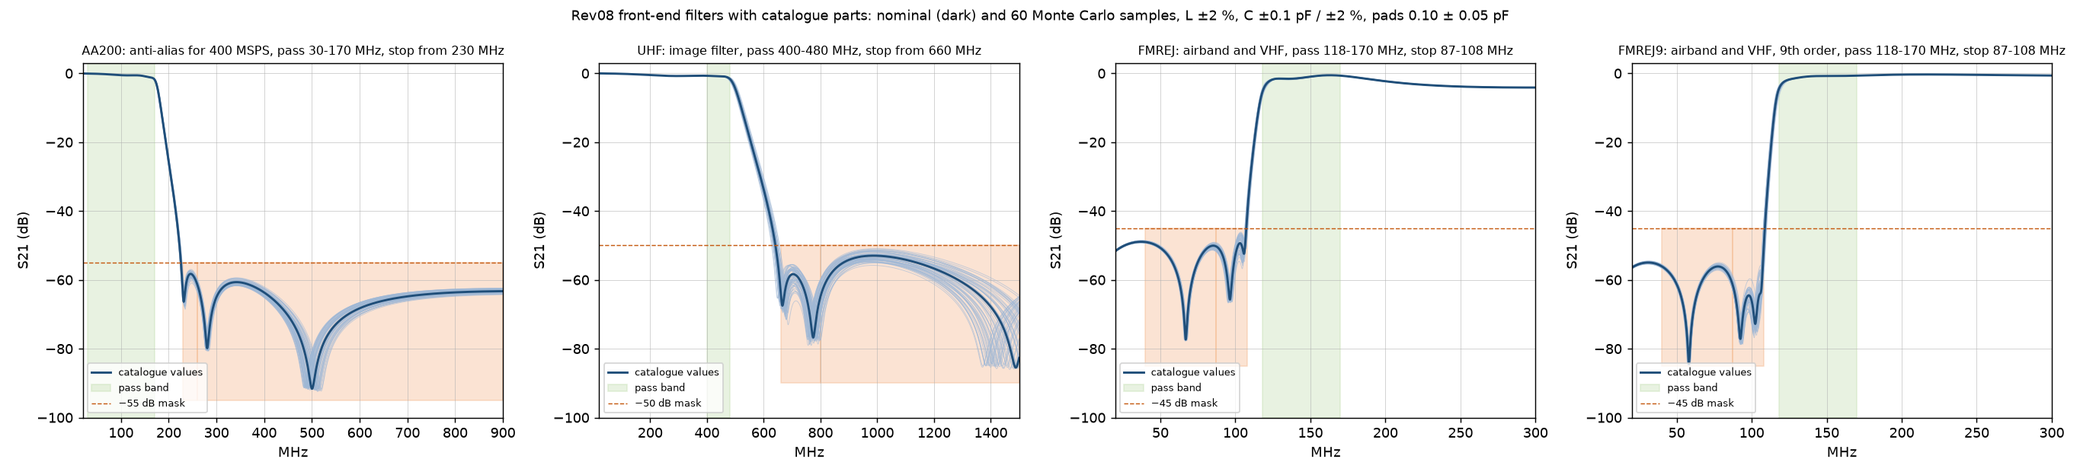
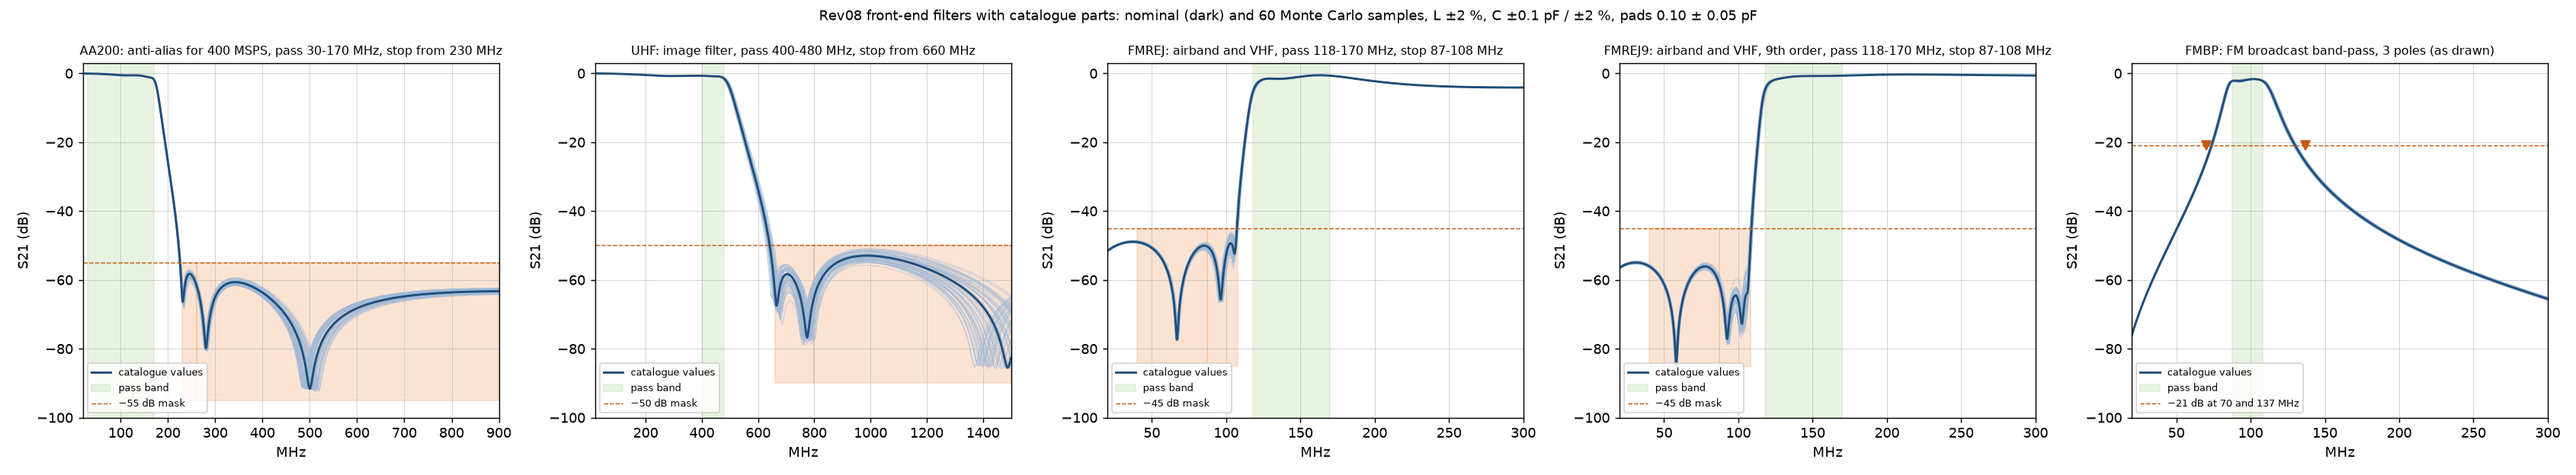
rev08: FM band-pass in the filter Monte Carlo; values re-chosen (16 nH || 160 pF, 390 nH + 6.8 pF): 3.1 dB p99, 24.3 dB p1 at 70 and 137 MHz
The first drawing (24 nH || 110 pF, 560 nH + 4.7 pF) modelled at 3.4 dB in band and 21.1 dB at p1 once pad
capacitance and inductor losses were in. RX_VU footprint fields now default from the symbol library.

diff --git a/_work/sim/rev08_filters_mc.py b/_work/sim/rev08_filters_mc.py
@@ -4,6 +4,7 @@ Rev08 phase 3 (docs/REV08_PLAN.md, section 11, gate G2): the three front-end fil
 to parts that exist, then a tolerance Monte Carlo, the method of aaf_lpf.py.
 
     python _work/sim/rev08_filters_mc.py          # about five minutes; writes docs/img/rev08_filters_mc.png
+    python _work/sim/rev08_filters_mc.py --fmbp   # the FM band-pass alone, in seconds
 
 Parts and tolerances [E: catalogue series, checked against LCSC stock when the schematic is drawn]:
   inductors  Murata LQW15AN (0402 wirewound, +-2 %, G) up to 120 nH, LQW18AN (0603, +-2 %) above
@@ -174,6 +175,73 @@ def monte_carlo(name, v, tight, n=2000, seed=1):
     return np.array(il), np.array(rl), np.array(rj)
 
 
+# The FM band-pass (phase 4 found it missing, section 5.4 of the plan): 3 poles, shunt tank, series resonator,
+# shunt tank, at the values drawn in RX_VU (rx_vu_spec.py). The first drawing (24 nH || 110 pF, 560 nH + 4.7 pF)
+# gave 3.4 dB loss and 21.1 dB at p1; a search over LQW15/LQW18 and E24 values gave these, 2.2 dB and 24.3 dB.
+FMBP = "FMBP: FM broadcast, 3-pole band-pass, pass 87.5-108 MHz, at 70 and 137 MHz >= 21 dB"
+FMBP_V = [16e-9, 160e-12, 390e-9, 6.8e-12, 16e-9, 160e-12]     # L1431 C1431, L1432 C1432, L1433 C1433
+FMBP_PASS, FMBP_REJ = (87.5e6, 108e6), (70e6, 137e6)
+
+
+def abcd_fmbp(v, f, cpad=(CPAD, CPAD)):
+    w = 2 * np.pi * f; one = np.ones_like(w, dtype=complex)
+    def tank(L, C, cp):                # LQW15AN 16 nH: Q about 40 at 100 MHz; pad capacitance across it
+        return [one, 0 * one, 1 / (1j * w * L + w * L / 40) + 1j * w * (C + cp + 0.1e-12), one]
+    L, C = v[2], v[3]                  # 390 nH 0603 wirewound: Q about 45, 0.25 pF self-capacitance
+    ZL = 1 / (1 / (1j * w * L + w * L / 45) + 1j * w * 0.25e-12)
+    ser = [one, ZL + 1 / (1j * w * C), 0 * one, one]
+    return fe._mul(fe._mul(tank(v[0], v[1], cpad[0]), ser), tank(v[4], v[5], cpad[1]))
+
+
+def fmbp_metrics(v, cpad=(CPAD, CPAD)):
+    FP = np.linspace(*FMBP_PASS, 80)
+    il = -20 * np.log10(np.abs(fe.s21(abcd_fmbp(v, FP, cpad))[0]))
+    rj = -20 * np.log10(np.abs(fe.s21(abcd_fmbp(v, np.array(FMBP_REJ), cpad))[0]))
+    return il.max(), rj.min()
+
+
+def fmbp_mc(n=2000, seed=1):
+    """L +-2 % (0402) and +-5 % (the 390 nH 0603, conservatively), C +-2 % from 10 pF and +-0.1 pF below, pads 0.10 +- 0.05 pF"""
+    rng = np.random.default_rng(seed)
+    il, rj = [], []
+    for _ in range(n):
+        w = list(FMBP_V)
+        w[0] *= 1 + rng.uniform(-0.02, 0.02); w[4] *= 1 + rng.uniform(-0.02, 0.02)
+        w[2] *= 1 + rng.uniform(-0.05, 0.05)
+        w[1] *= 1 + rng.uniform(-0.02, 0.02); w[5] *= 1 + rng.uniform(-0.02, 0.02)
+        w[3] += rng.uniform(-0.1e-12, 0.1e-12)
+        a, b = fmbp_metrics(w, CPAD + rng.uniform(-0.05e-12, 0.05e-12, 2))
+        il.append(a); rj.append(b)
+    return np.array(il), np.array(rj)
+
+
+def report_fmbp(ax=None):
+    a, b = fmbp_metrics(FMBP_V)
+    il, rj = fmbp_mc()
+    print(FMBP)
+    print("  parts   16 nH || 160 pF, 390 nH + 6.8 pF, 16 nH || 160 pF")
+    print("          loss <= %.2f dB in 87.5-108 MHz, rejection >= %.1f dB at 70 and 137 MHz" % (a, b))
+    print("  MC: loss p99 %.2f dB, rejection p1 %.1f dB (mask 21), yield %.1f %%"
+          % (np.percentile(il, 99), np.percentile(rj, 1), 100 * np.mean(rj >= 21)))
+    if ax is None:
+        return
+    f = np.linspace(20e6, 300e6, 1500)
+    rng = np.random.default_rng(7)
+    for i in range(60):
+        w = [x * (1 + rng.uniform(-0.02, 0.02)) for x in FMBP_V]
+        ax.plot(f / 1e6, 20 * np.log10(np.abs(fe.s21(abcd_fmbp(w, f))[0])), color="#9fb8d6", lw=0.5, alpha=0.6)
+    ax.plot(f / 1e6, 20 * np.log10(np.abs(fe.s21(abcd_fmbp(FMBP_V, f))[0])), color="#1f4e79", lw=1.6,
+            label="catalogue values")
+    ax.axvspan(FMBP_PASS[0] / 1e6, FMBP_PASS[1] / 1e6, color="#c6e0b4", alpha=0.4, label="pass band")
+    for fr in FMBP_REJ:
+        ax.plot([fr / 1e6], [-21], "v", color="#c55a11", ms=7)
+    ax.axhline(-21, color="#c55a11", lw=0.8, ls="--", label="−21 dB at 70 and 137 MHz")
+    ax.set_ylim(-100, 3); ax.set_xlim(f[0] / 1e6, f[-1] / 1e6)
+    ax.set_xlabel("MHz"); ax.set_ylabel("S21 (dB)"); ax.grid(lw=0.3)
+    ax.set_title("FMBP: FM broadcast band-pass, 3 poles (as drawn)", fontsize=9)
+    ax.legend(fontsize=7, loc="lower left")
+
+
 def fmt(v, name=None):
     return ", ".join("%.3g nH" % (x * 1e9) if k in inds(name) else "%.3g pF" % (x * 1e12) for k, x in enumerate(v))
 
@@ -183,7 +251,7 @@ def main():
     matplotlib.use("Agg")
     import matplotlib.pyplot as plt
     names = list(fe.FILTERS)
-    fig, axs = plt.subplots(1, 4, figsize=(21, 4.8))
+    fig, axs = plt.subplots(1, 5, figsize=(26, 4.8))
     for ax, name in zip(axs, names):
         kind, fp, fs, ilmax, rej, q, cpar, _ = fe.FILTERS[name]
         vi = ideal(name)
@@ -218,6 +286,7 @@ def main():
         ax.set_xlabel("MHz"); ax.set_ylabel("S21 (dB)"); ax.grid(lw=0.3)
         ax.set_title(name.split(":")[0] + ": " + name.split(":")[1].strip(), fontsize=9)
         ax.legend(fontsize=7, loc="lower left")
+    report_fmbp(axs[4])
     fig.suptitle("Rev08 front-end filters with catalogue parts: nominal (dark) and 60 Monte Carlo samples, "
                  "L ±2 %, C ±0.1 pF / ±2 %, pads 0.10 ± 0.05 pF", fontsize=10)
     plt.tight_layout()
@@ -227,4 +296,7 @@ def main():
 
 
 if __name__ == "__main__":
-    main()
+    if "--fmbp" in sys.argv:
+        report_fmbp()
+    else:
+        main()

diff --git a/_work/sheets/rx_vu_spec.py b/_work/sheets/rx_vu_spec.py
@@ -27,7 +27,19 @@ def L(value, why, fp=L0402):
     return ("Device:L", value, fp, why)
 
 
+def _lib_fp(lib):
+    """The footprint a symbol of our library names, so the sheet's instance does not blank it."""
+    import os, re
+    name = lib.split(":", 1)[1]
+    sym = open(os.path.join(os.path.dirname(os.path.abspath(__file__)), "..", "..", "symbols", "kv260-ias2rf.kicad_sym"),
+               encoding="utf-8").read()
+    m = re.search(r'\n\t\(symbol "' + re.escape(name) + r'"[\s\S]*?\(property "Footprint" "([^"]*)"', sym)
+    return m.group(1) if m else ""
+
+
 def U(lib, value, why, fp=None):
+    if fp is None and lib.startswith("kv260-ias2rf:"):
+        fp = _lib_fp(lib)
     return (lib, value, fp or "", why)
 
 
@@ -212,8 +224,8 @@ FILTERS = {
         ("sLC", "L1422", "82n", "C1424", "36p"), ("C", "C1425", "18p"), ("sLC", "L1423", "100n", "C1426", "24p"),
         ("C", "C1427", "24p"), ("sLC", "L1424", "220n", "C1428", "10p"), ("C", "C1429", "91p")]),
     "FMBP": ("VU_FMBP_IN", "VU_FMBP_OUT", "FM band-pass, 3-pole Butterworth, 84-113 MHz", [
-        ("pLC", "L1431", "24n", "C1431", "110p"), ("LsC", "L1432", "560n", "C1432", "4.7p"),
-        ("pLC", "L1433", "24n", "C1433", "110p")]),
+        ("pLC", "L1431", "16n", "C1431", "160p"), ("LsC", "L1432", "390n", "C1432", "6.8p"),
+        ("pLC", "L1433", "16n", "C1433", "160p")]),           # rev08_filters_mc.py --fmbp: 3.1 dB p99, 24 dB p1
 }
 
 

diff --git a/docs/REV08_PLAN.md b/docs/REV08_PLAN.md
@@ -321,6 +321,7 @@ pads 0.10 ± 0.05 pF) [V arithmetic on E parts data]:
 | UHF image, 7th order | 6.2 pF, 22 nH ‖ 1.8 pF, 6.8 pF, 27 nH ‖ 2 pF, 6.8 pF, 22 nH ‖ 0.4 pF, 1.3 pF | 2.4 dB | **50.7 dB** (mask 50) | Pass, 90 % yield; needs the ±0.1 pF parts (with ±0.25 pF: 45 dB) |
 | FM reject, 7th order | — | 7.3 dB | 34.4 dB | **Fails G2**: a 9 % transition does not survive ±2 % parts |
 | **FM reject, 9th order (adopted)** | 18 pF, 68 nH + 110 pF, 13 pF, 82 nH + 36 pF, 18 pF, 100 nH + 24 pF, 24 pF, 220 nH + 10 pF, 91 pF | ≤ 3.1 dB from 121.5 MHz up; 4.1–6.7 dB at 118–120 MHz | **42.5 dB** (gate 40) | **G2 passed.** 13 parts instead of 10. The edge costs about 1 dB of noise figure on the lowest 2 MHz of the airband in a worst-case unit |
+| FM band-pass, 3 poles (added in phase 5) | 16 nH ‖ 160 pF, 390 nH + 6.8 pF, 16 nH ‖ 160 pF | 3.1 dB | **24.3 dB** at 70 and 137 MHz (mask 21) | Pass; re-chosen from the first drawing's values (3.4 dB, 21.1 dB) |
 
 No commercial FM band-stop filter is stocked (searched 16 November); higher inductor Q does not help, since the
 tolerances, not the losses, set the edge.
@@ -650,7 +651,10 @@ What drawing it changed in this plan:
 - **The AP22652's enable is active low** (section 5.3 said high): pulled up, so the bias tee is off until written.
 - **The bias tee's low option is 3.3 V from `+3V3_D`**, not the 3.0 V rail, which has 70 mA of headroom.
 - **An FM band-pass was missing** from phase 3 (section 5.4 covered three filters, the preselector needs four):
-  3-pole Butterworth, 84–113 MHz, 2.5 dB in band, ≥ 21 dB at 70 and 137 MHz with tolerances [V arithmetic].
+  3-pole band-pass, shunt 16 nH ‖ 160 pF, series 390 nH + 6.8 pF, shunt 16 nH ‖ 160 pF. Phase 5 added it to
+  `rev08_filters_mc.py` (`--fmbp`): the first drawing (24 nH ‖ 110 pF, 560 nH + 4.7 pF) gave 3.4 dB in band and
+  only 21.1 dB at p1, so the values were re-searched over catalogue parts: **loss 2.2 dB nominal, 3.1 dB p99;
+  ≥ 24.3 dB at 70 and 137 MHz at p1** (mask 21) [V arithmetic, 2,000 samples, inductor Q 40-45].
 - **The mixer's bias current flows through the TC4-1W+'s centre tap**, rated 30 mA: G-3 keeps `MIX2_IDD` ≤ 3.
 - **The LEDs and the USB bridge are on their own sheet**, not on `CONTROL` (no legible room on that A1 sheet).
   `+1V8_D`'s LED gets a transistor as well as `+1V0`'s.

diff --git a/docs/RX_VU_SPEC.md b/docs/RX_VU_SPEC.md
@@ -66,7 +66,7 @@ gateware can take over with the `SIPIN` bit.
 | Anti-alias LPF | 11p, 56n‖5.6p, 22p, 62n‖7.5p, 24p, 75n‖1.2p, 20p | `rev08_filters_mc.py`, plan 5.4 |
 | UHF image LPF | 6.2p, 22n‖1.8p, 6.8p, 27n‖2p, 6.8p, 22n‖0.4p, 1.3p | Same |
 | FM reject, 9th order | 18p, 68n+110p, 13p, 82n+36p, 18p, 100n+24p, 24p, 220n+10p, 91p | Same; G2 passed |
-| **FM band-pass (new in phase 4)** | shunt 24n‖110p, series 560n + 4.7p, shunt 24n‖110p: 3-pole Butterworth, 84–113 MHz | Designed here: 2.5 dB loss in 88–108 MHz (Q 40), 22 dB at 70 and 137 MHz; Monte Carlo (L ±2 %, C ±2 % / ±0.1 pF, 2,000 runs): loss ≤ 3.0 dB p99, rejection ≥ 21.2 dB p1 [V arithmetic]. To be added to `rev08_filters_mc.py` in phase 9 |
+| **FM band-pass (new in phase 4)** | shunt 16n‖160p, series 390n + 6.8p, shunt 16n‖160p: 3-pole band-pass, 88–108 MHz | `rev08_filters_mc.py --fmbp` (phase 5): 2.2 dB loss nominal with Q 40-45 inductors and pad capacitance, Monte Carlo (L ±2 % / ±5 % for the 390 nH, C ±2 % / ±0.1 pF, 2,000 runs) loss ≤ 3.1 dB p99, rejection ≥ 24.3 dB p1 at 70 and 137 MHz [V arithmetic]. Phase 4's first values (24n‖110p, 560n + 4.7p) modelled at 3.4 dB and 21.1 dB p1 once the pads and losses were in, so they were re-chosen |
 | RFFC5072 loop filter, reference, supplies | C8 8.2p, R3 22k + C9 180p, R2 470 / C10 330p, R6 470 / C17 330p; REXT 51k; 1 nF reference coupling; 120 Ω + 10 nF TCXO supply; 33 pF on the serial lines | Data sheet DS140110 p.13, wideband application schematic |
 | SPF5043Z bias | 1 µH (0603) + 56 nH (0402) choke, 1 nF blocks; IF amplifier 1 µH | Qorvo evaluation board (100 nH, 100 pF), scaled down to 30 MHz |
 | Bias tee | 56 nH + 1 µH (0805) chokes, 1 nF block, AP22652 with RLIM 210 k: 125 mA typical (95–155) | AP22652 data sheet table |
